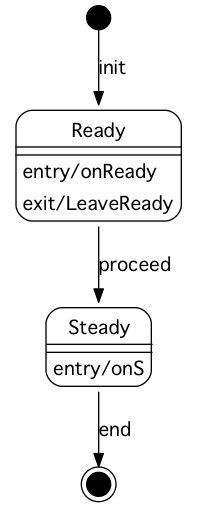
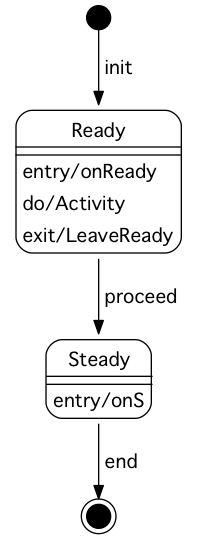
first version ready

diff --git a/lib/graph.js b/lib/graph.js
@@ -1,5 +1,5 @@
 /*global require, module, __dirname, console */
-module.exports = function (file, template, output) {
+module.exports = function (file, template) {
   var fs = require('fs'),
       esprima = require('esprima'),
       escodegen = require('escodegen'),
@@ -19,7 +19,11 @@ module.exports = function (file, template, output) {
     if (candidate.length === 0 && state !== fsm.initial && state !== fsm.final) {
       fsm.states.push({
         name: state,
-        activities: []
+        activities: {
+          do: [],
+          entry: [],
+          exit: []
+        }
       });
     }
   }
@@ -37,17 +41,20 @@ module.exports = function (file, template, output) {
   }
 
   function addActivity(state, stage, activity, name) {
-    var target = fsm.states.filter(function(value) {
+    var target_state = fsm.states.filter(function(value) {
       return value.name === state;
     });
 
     switch (stage) {
       case undefined:
       case 'enter':
-        target[0].activities.push('entry/' + name);
+        target_state[0].activities.entry.push(name);
         break;
       case 'leave':
-        target[0].activities.push('exit/' + name);
+        target_state[0].activities.exit.push(name);
+        break;
+      case 'action':
+        target_state[0].activities.do.push(name);
         break;
       default:
     }
@@ -91,26 +98,28 @@ module.exports = function (file, template, output) {
     fsm.initial = 'none';
   }
 
-  fsm.events.forEach(function(value) {
-    var result = /((is_|isnot_)?(?=([a-zA-Z0-9_]+)))/g.exec(value.name);
+  if (fsm.events) {
+    fsm.events.forEach(function(value) {
+      var result = /((is_|isnot_)?(?=([a-zA-Z0-9_]+)))/g.exec(value.name);
 
-    if (result[0]) {
-      switch (result[0]) {
-        case 'is_':
-          value.label = '[is ' + result[3] + ']';
-          break;
-        case 'isnot_':
-          value.label = '[is !' + result[3] + ']';
-          break;
-        default:
+      if (result[0]) {
+        switch (result[0]) {
+          case 'is_':
+            value.label = '[is ' + result[3] + ']';
+            break;
+          case 'isnot_':
+            value.label = '[is !' + result[3] + ']';
+            break;
+          default:
+        }
+      } else {
+        value.label = value.name;
       }
-    } else {
-      value.label = value.name;
-    }
 
-    add(value.from);
-    add(value.to);
-  });
+      add(value.from);
+      add(value.to);
+    });
+  }
 
   for (var prop in fsm.callbacks) {
     var result = /(on)(enter|leave)?([a-zA-Z0-9_]+)/.exec(prop),
@@ -126,12 +135,24 @@ module.exports = function (file, template, output) {
       addActivity(name, stage, activity, fsm.callbacks[prop]);
     }
   }
+  
+  if (true && fsm.events) {
+    // Checks for events that have the same from and to state and includes then
+    // as do activities to the state
+    fsm.events.forEach(function (event, index, events) {
+      if (event.from === event.to && fsm.callbacks['on' + event.name]) {
+        addActivity(event.from, 'action', 'activity', fsm.callbacks['on' + event.name]);
+        events.splice(index, 1);
+      }
+    });
+  }
+  
+  if (fsm.events === undefined) {
+    fsm.events = [];
+  }
 
   template = fs.readFileSync(__dirname + '/templates/' + template + '.jade', 'utf8');
-
-  if (output === undefined) {
-    console.log(jade.compile(template)(fsm));
-  } else {
-    fs.writeFileSync(output, jade.compile(template)(fsm));
-  }
+  
+  return jade.compile(template)(fsm);
+  
 };

diff --git a/index.js b/index.js
@@ -1,6 +1,7 @@
 #!/usr/bin/env node
 
-var argv = require('yargs')
+var fs = require('fs'),
+  argv = require('yargs')
   .usage('Creates a DOT graph visualization of the state machine.\nUsage: fsm2dot -f filename -s [strict|fancy]')
 //  .example('$0 -f', 'count the lines in the given file')
   .options('f', {
@@ -19,4 +20,10 @@ var argv = require('yargs')
   .demand('f')
   .argv;
 
-require('./lib/graph.js')(argv.file, argv.style, argv.output);
+var graph = require('./lib/graph.js')(argv.file, argv.style);
+
+if (argv.output === undefined) {
+  console.log(graph);
+} else {
+  fs.writeFileSync(argv.output, graph);
+}

diff --git a/example/fsm.js b/example/fsm.js
@@ -4,12 +4,15 @@ var fsm = StateMachine.create({
   events: [
     { name: 'init', from: 'start', to: 'Ready' },
     { name: 'proceed', from: 'Ready', to: 'Steady' },
-    { name: 'end', from: 'Steady', to: 'stop' }
+    { name: 'end', from: 'Steady', to: 'stop' },
+    
+    { name: 'test', from: 'Ready', to: 'Ready' }
   ],
   callbacks: {
     onReady: function () {},
     onleaveReady: function LeaveReady() {},
-    onSteady: onS
+    onSteady: onS,
+    ontest: function Activity() {}
   }
 });
   
